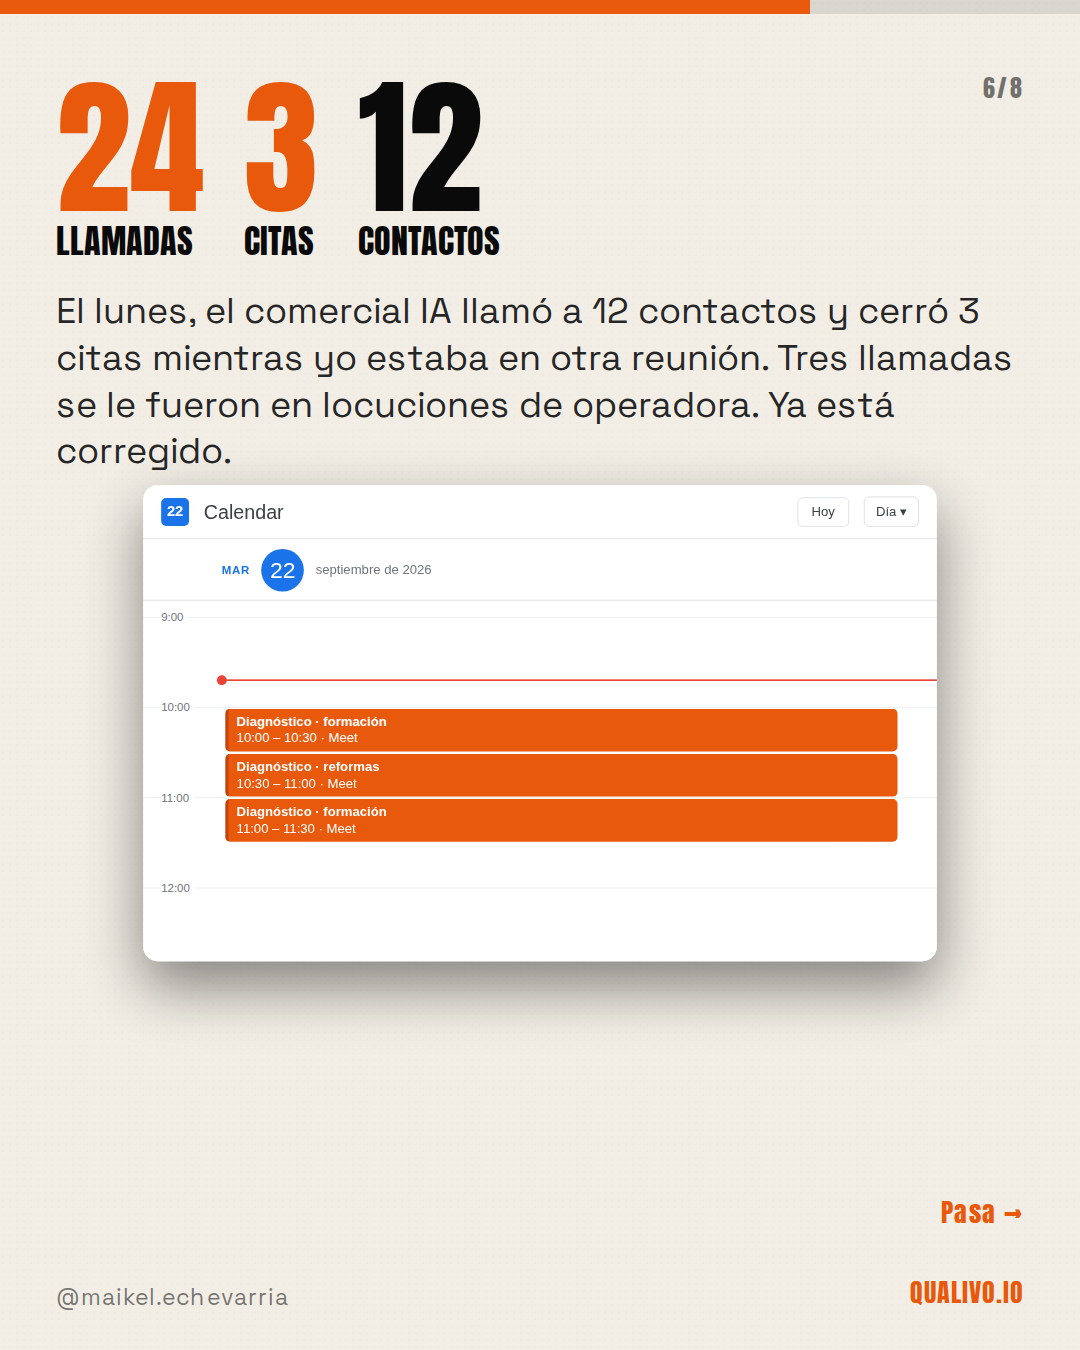
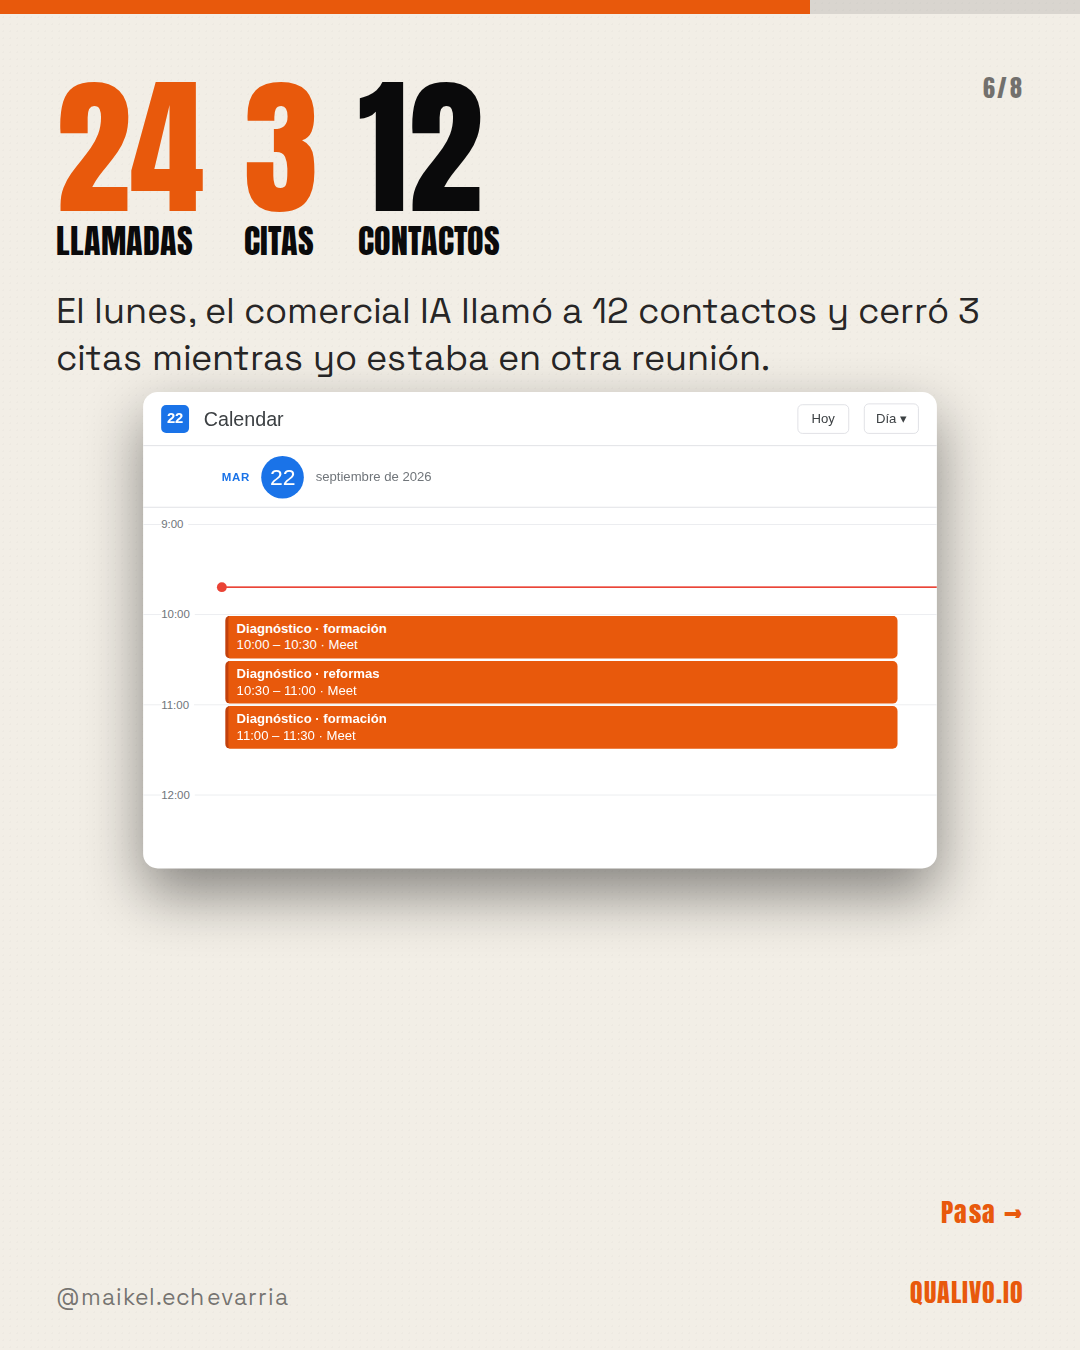
Carrusel «Casi 7×» v5: lámina 6 sin la frase de las locuciones (pedido de Maikel)
Claude-Session: https://claude.ai/code/session_015zPzMSu62cfqSPYhENKK62

Changed region(s): [[0.0611, 0.2489, 0.9472, 0.7467], [0.1528, 0.4356, 0.1833, 0.4667]]

diff --git a/content/carruseles/2026-09-22-contacto-7x/lamina-6.html b/content/carruseles/2026-09-22-contacto-7x/lamina-6.html
@@ -62,7 +62,7 @@ body{padding:0;background:#000}
     <div><div style="font-family:Anton;font-size:150px;line-height:.9;color:#E8590C">3</div><div style="font-family:Anton;font-size:34px;text-transform:uppercase">citas</div></div>
     <div><div style="font-family:Anton;font-size:150px;line-height:.9">12</div><div style="font-family:Anton;font-size:34px;text-transform:uppercase">contactos</div></div>
   </div>
-  <div class="t" style="margin-top:22px">El lunes, el comercial IA llamó a 12 contactos y cerró 3 citas mientras yo estaba en otra reunión. Tres llamadas se le fueron en locuciones de operadora. Ya está corregido.</div>
+  <div class="t" style="margin-top:22px">El lunes, el comercial IA llamó a 12 contactos y cerró 3 citas mientras yo estaba en otra reunión.</div>
   <div class="vis" style="transform:scale(.82);transform-origin:top center;margin-bottom:-90px;margin-top:10px"><div class="gcal">
 <div class="gtop"><div class="logo">22</div><div class="ttl">Calendar</div><div class="today">Hoy</div><div class="view">Día ▾</div></div>
 <div class="gday"><div><div class="dow">MAR</div></div><div class="num">22</div><div style="font-size:16px;color:#70757a">septiembre de 2026</div></div>

diff --git a/content/diario-contenido.md b/content/diario-contenido.md
@@ -342,3 +342,5 @@ carrusel «Casi 7×» pasa al martes; Sin humo pasa al miércoles y se rehace o 
 cambia. Lámina 5 cerrada con mi recomendación: fuera el WhatsApp firmado «soy
 Maikel», queda solo la llamada de Raquel. v4 renderizada y entregada en el chat
 con los dos pies de foto. Publicar sigue dependiendo de que levante la pausa.
+
+Maikel, 22-sep mediodía: «me gusta, pero lo de las tres locuciones quítalo». Lámina 6 sin la frase del fallo (v5). Regla que anoto: en el carrusel de demostración no va el fallo; el fallo va en el diario y en la newsletter.

diff --git a/content/carruseles/2026-09-22-contacto-7x/README.md b/content/carruseles/2026-09-22-contacto-7x/README.md
@@ -17,3 +17,5 @@ recomendación pendiente: fuera el WhatsApp firmado «soy Maikel» (regla del
 21-sep: nada que parezca envío automatizado desde el 663); queda solo la
 llamada de Raquel (lunes 21, 10:30, 4 min 33 s, cita martes 10:30). Pie de
 foto ajustado. Sigue sin publicar hasta que Maikel levante la pausa.
+
+v5 (22-sep): Maikel pide quitar de la lámina 6 la frase de las tres locuciones de operadora. Fuera. El fallo se cuenta en la newsletter, no aquí.
